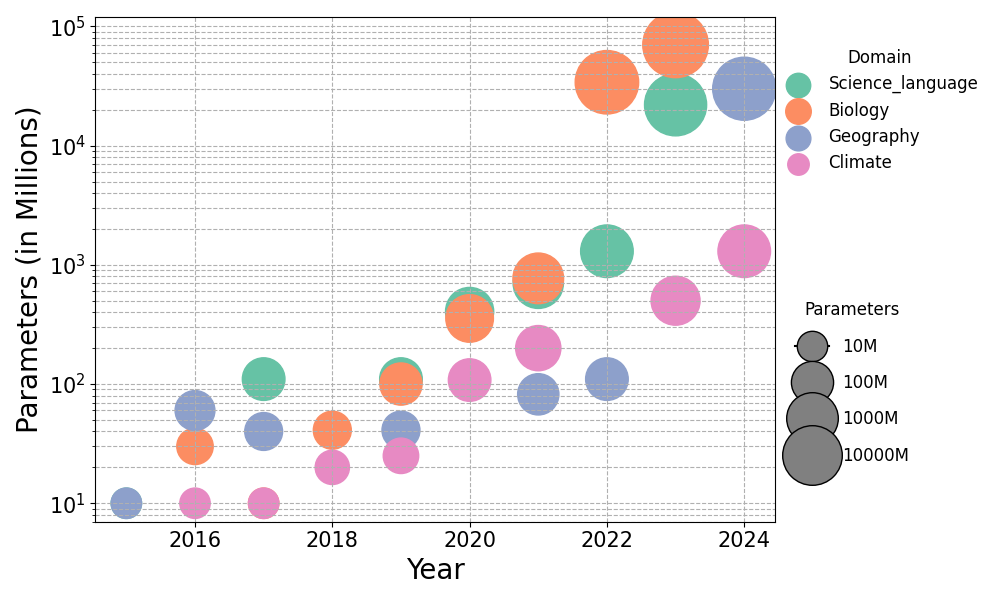
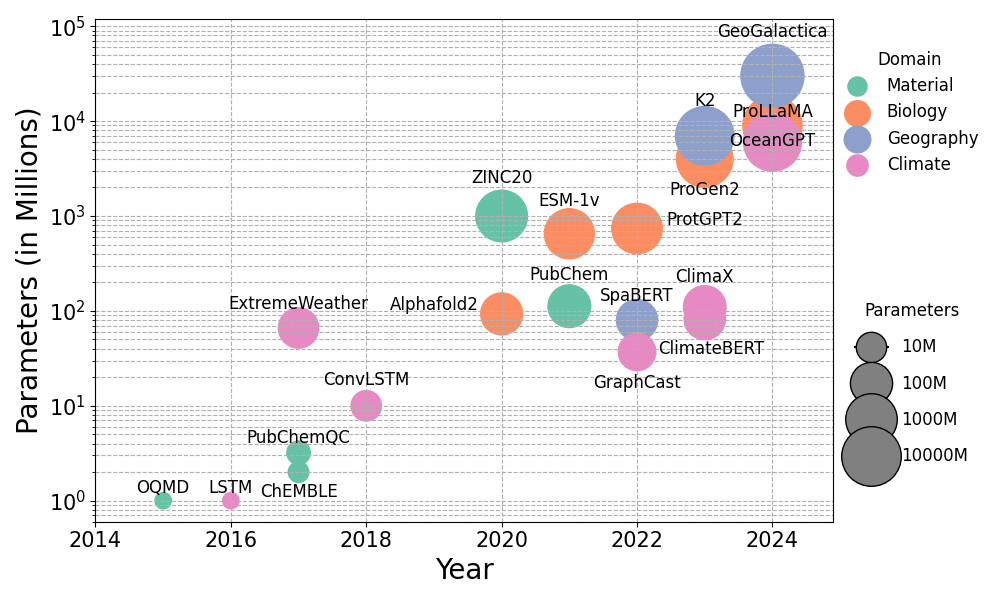
change style

Changed region(s): [[0.0, 0.03, 0.992, 0.99]]

diff --git a/scatter.py b/scatter.py
@@ -24,12 +24,18 @@ from matplotlib.lines import Line2D
 #         'Seasonal_forecasting': Seasonal_forecasting}
 
 
-Science_language = [[2015, 2017, 2019, 2020, 2021, 2022, 2023], [10, 110, 110, 406, 700, 1300, 22000]]
-Biology = [[2016, 2017, 2018, 2019, 2020, 2021, 2022, 2023], [30, 10, 41, 100, 355, 770, 34000, 70000]]
-Geography = [[2015, 2016, 2017, 2019, 2021, 2022, 2024], [10, 60, 40, 41, 82, 110, 30000]]
-Climate = [[2016, 2017, 2018, 2019, 2020, 2021, 2023, 2024], [10, 10, 20, 25, 108, 200, 500, 1300]]
+# Science_language = [[2015, 2017, 2019, 2020, 2021, 2022, 2023], [10, 110, 110, 406, 700, 1300, 22000]]
+# Material = [[2015, 2017, 2017, 2020, 2021], [1, 2, 3.2, 1000, 112], ['OQMD', 'ChEMBLE', 'PubChemQC', 'ZINC20', 'PubChem']]
+# Biology = [[2016, 2017, 2018, 2019, 2020, 2021, 2022, 2023], [30, 10, 41, 100, 355, 770, 34000, 70000], ['Alphafold2']]
+# Geography = [[2015, 2016, 2017, 2019, 2021, 2022, 2024], [10, 60, 40, 41, 82, 110, 30000]]
+# Climate = [[2016, 2017, 2018, 2019, 2020, 2021, 2023, 2024], [10, 10, 20, 25, 108, 200, 500, 1300]]
 
-data = {'Science_language': Science_language, 'Biology': Biology, 'Geography': Geography, 'Climate': Climate}
+Material = [[2015, 2017, 2017, 2020, 2021], [1, 2, 3.2, 1000, 112], ['OQMD', 'ChEMBLE', 'PubChemQC', 'ZINC20', 'PubChem']]
+Biology = [[2020, 2021, 2022, 2023, 2024], [93, 650, 738, 4000, 9000], ['Alphafold2', 'ESM-1v', 'ProtGPT2', 'ProGen2', 'ProLLaMA']]
+Geography = [[2022, 2023, 2024], [80, 7000, 30000], ['SpaBERT', 'K2', 'GeoGalactica']]
+Climate = [[2016, 2017, 2018, 2022, 2023, 2023, 2024], [1, 66, 10, 37, 82, 110, 6000], ['LSTM', 'ExtremeWeather', 'ConvLSTM', 'GraphCast', 'ClimateBERT', 'ClimaX', 'OceanGPT']]
+
+data = {'Material': Material, 'Biology': Biology, 'Geography': Geography, 'Climate': Climate}
 
 # colors = {'Mathmatics':'red', 'Science_language':'blue', 'Physics':'green', 
 #           'Biology':'yellow', 'Geography':'purple', 'Chemistry':'orange'}
@@ -47,6 +53,20 @@ for i in range(len(data)):
     parameters = data[label[i]][1]
     
     plt.scatter(year, parameters, color=colors[label[i]], label=label[i], s=[200*np.log(p+1) for p in parameters])
+
+# put text on the points
+offset = [[[0, 0.1], [0, -1], [0, 0.5], [0, 1000], [0, 80]], 
+          [[-1, 0], [0, 500], [1, 0], [0, -2500], [0, 1000]], 
+          [[0, 35], [0, 6000], [0, 40000]], 
+          [[0, 0.1],  [0, 30], [0, 5], [0, -23], [0.1, -50], [0, 75], [0, -1000]]]
+for i in range(len(data)):
+    year = data[label[i]][0]
+    parameters = data[label[i]][1]
+    labels = data[label[i]][2]
+    ofs = offset[i]
+    s=[200*np.log(p+1)//2 for p in parameters]
+    for j in range(len(year)):
+        plt.text(year[j]+ofs[j][0], parameters[j]+ofs[j][1], labels[j], fontsize=12, horizontalalignment='center', verticalalignment='bottom')
 
 # log scale y-axis
 plt.yscale('log')
@@ -77,7 +97,8 @@ plt.xlabel("Year", fontsize=20)
 plt.ylabel("Parameters (in Millions)", fontsize=20)
 
 #set ylimit to 100
-plt.ylim(7, 120000)
+plt.xlim(2014, 2024.9)
+plt.ylim(0.6, 120000)
 
 # set ticks fontsize
 plt.xticks(fontsize=15)
